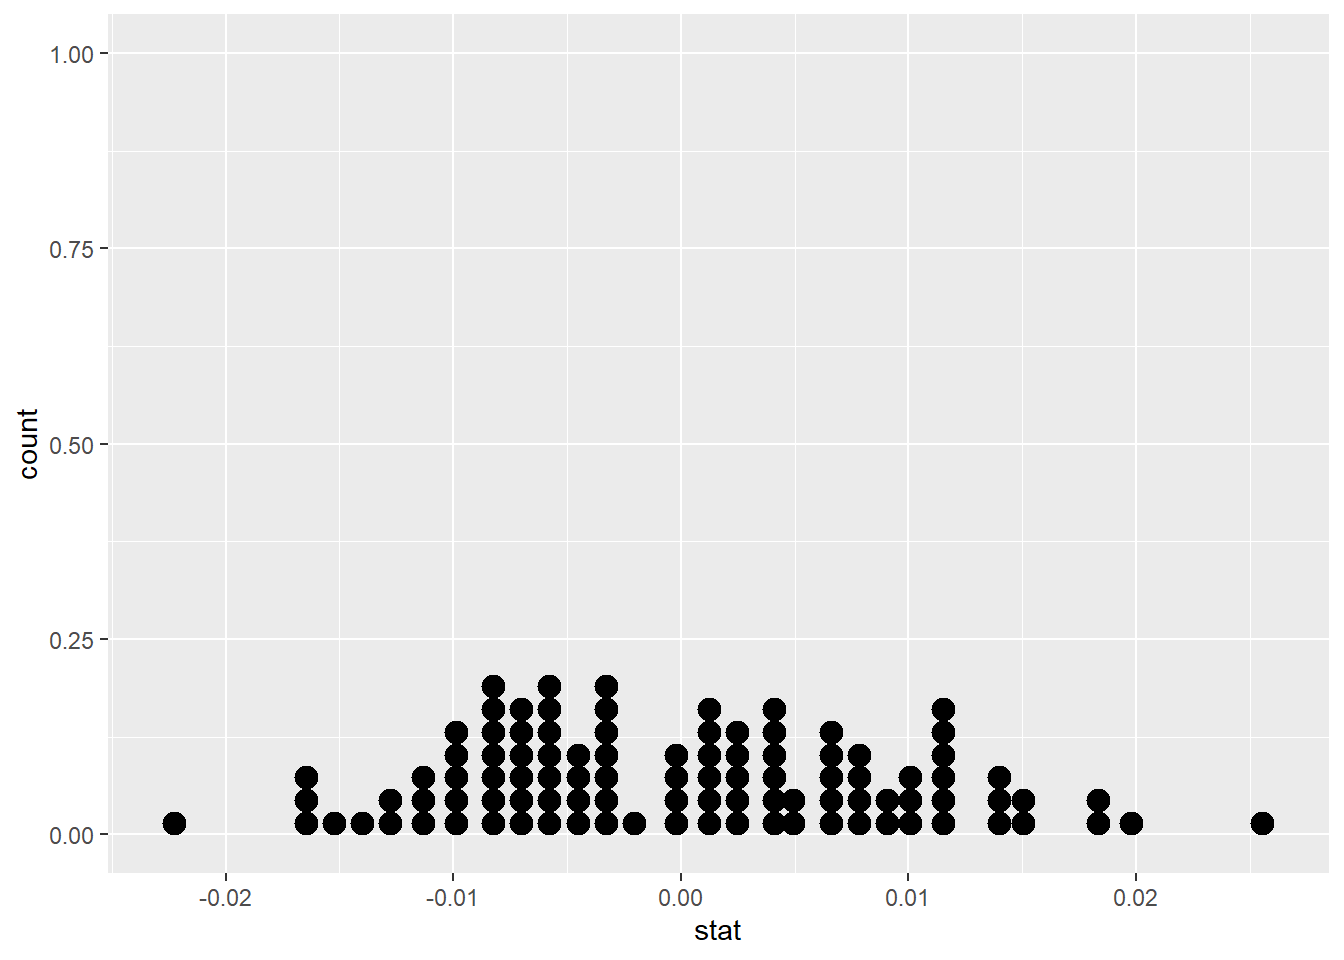
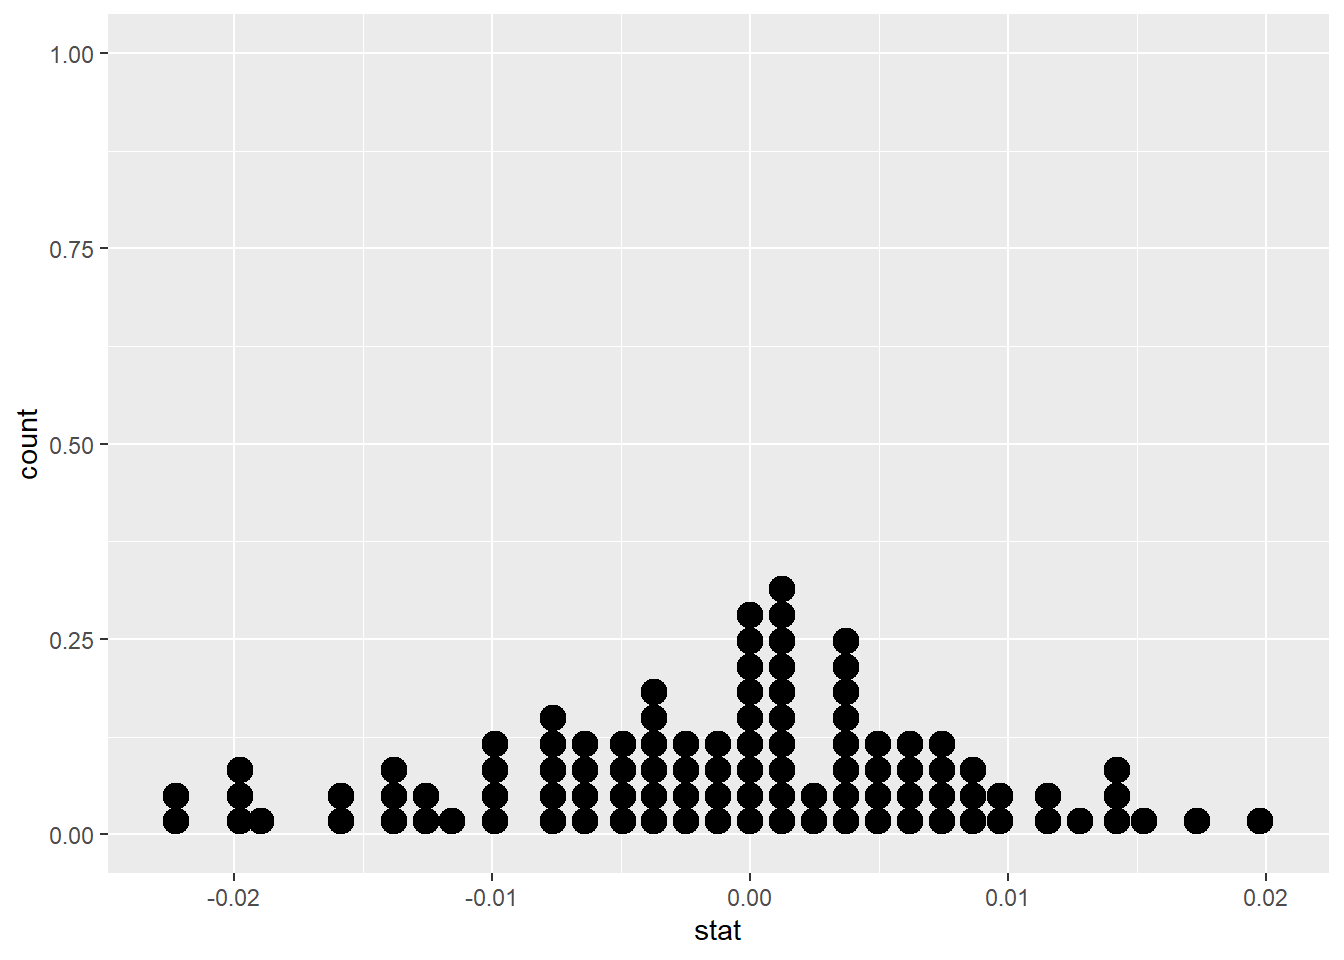
45

diff --git a/content/post/R/2021-10-13-foundations-of-inference/index.en.html b/content/post/R/2021-10-13-foundations-of-inference/index.en.html
@@ -144,16 +144,16 @@ homeown_perm</code></pre>
 ## # Groups:   replicate [10]
 ##    HomeOwn Gender replicate
 ##    &lt;fct&gt;   &lt;fct&gt;      &lt;int&gt;
-##  1 Rent    male           1
-##  2 Own     male           1
-##  3 Rent    male           1
-##  4 Rent    male           1
+##  1 Own     male           1
+##  2 Rent    male           1
+##  3 Own     male           1
+##  4 Own     male           1
 ##  5 Own     female         1
 ##  6 Own     male           1
-##  7 Own     male           1
+##  7 Rent    male           1
 ##  8 Rent    female         1
-##  9 Own     female         1
-## 10 Rent    female         1
+##  9 Rent    female         1
+## 10 Own     female         1
 ## # ... with 97,110 more rows</code></pre>
 </div>
 <div id="randomized-statistics-and-dotplot" class="section level2">
@@ -176,18 +176,18 @@ homeown_perm &lt;- homes %&gt;%
 # Print results to console
 homeown_perm</code></pre>
 <pre><code>## # A tibble: 100 x 2
-##    replicate     stat
-##        &lt;int&gt;    &lt;dbl&gt;
-##  1         1  0.00659
-##  2         2  0.00288
-##  3         3  0.0136 
-##  4         4 -0.00618
-##  5         5 -0.0177 
-##  6         6 -0.0124 
-##  7         7 -0.0103 
-##  8         8 -0.00330
-##  9         9  0.00659
-## 10        10 -0.00124
+##    replicate        stat
+##        &lt;int&gt;       &lt;dbl&gt;
+##  1         1  0.000409  
+##  2         2  0.00288   
+##  3         3  0.00329   
+##  4         4  0.00206   
+##  5         5  0.00865   
+##  6         6  0.00206   
+##  7         7  0.0218    
+##  8         8  0.00247   
+##  9         9 -0.00000297
+## 10        10 -0.0132    
 ## # ... with 90 more rows</code></pre>
 <pre class="r"><code># Perform 100 permutations
 homeown_perm &lt;- homes %&gt;%
@@ -369,11 +369,11 @@ disc_perm %&gt;%
 <pre><code>## # A tibble: 5 x 2
 ##   replicate    stat
 ##       &lt;int&gt;   &lt;dbl&gt;
-## 1         1 -0.208 
+## 1         1 -0.0417
 ## 2         2 -0.0417
 ## 3         3 -0.208 
-## 4         4 -0.0417
-## 5         5 -0.0417</code></pre>
+## 4         4  0.292 
+## 5         5  0.125</code></pre>
 </div>
 <div id="randomizing-gender-discrimination" class="section level2">
 <h2>2-5 Randomizing gender discrimination</h2>
@@ -438,7 +438,7 @@ ggplot(disc_perm, aes(x = stat)) +
 <pre><code>## # A tibble: 1 x 3
 ##    q.90  q.95  q.99
 ##   &lt;dbl&gt; &lt;dbl&gt; &lt;dbl&gt;
-## 1 0.208 0.208 0.292</code></pre>
+## 1 0.125 0.208 0.292</code></pre>
 </div>
 <div id="two-sided-critical-region" class="section level2">
 <h2>2-9 Two-sided critical region</h2>
@@ -459,7 +459,7 @@ disc_perm %&gt;%
 <pre><code>## # A tibble: 1 x 3
 ##     q.01   q.05   q.10
 ##    &lt;dbl&gt;  &lt;dbl&gt;  &lt;dbl&gt;
-## 1 -0.292 -0.208 -0.208</code></pre>
+## 1 -0.292 -0.208 -0.125</code></pre>
 </div>
 <div id="sample-size-in-randomization-distribution" class="section level2">
 <h2>2-12 Sample size in randomization distribution</h2>
@@ -519,7 +519,7 @@ calc_upper_quantiles(disc_perm)</code></pre>
 <pre><code>## # A tibble: 1 x 3
 ##    q.90  q.95  q.99
 ##   &lt;dbl&gt; &lt;dbl&gt; &lt;dbl&gt;
-## 1 0.208 0.208 0.292</code></pre>
+## 1 0.125 0.208 0.292</code></pre>
 <pre class="r"><code># Calculate the quantiles associated with the small dataset
 calc_upper_quantiles(disc_perm_small)</code></pre>
 <pre><code>##   q.90 q.95 q.99
@@ -534,6 +534,42 @@ calc_upper_quantiles(disc_perm_big)</code></pre>
 <p>In the video, you learned that a p-value measures the degree of disagreement between the data and the null hypothesis. Here, you will calculate the p-value for the original discrimination dataset as well as the small and big versions, disc_small and disc_big.</p>
 <p>The original differences in proportions are available in your workspace, diff_orig, diff_orig_small, and diff_orig_big, as are the permuted datasets, disc_perm, disc_perm_small, and disc_perm_big.</p>
 <p>Recall that you’re only interested in the one-sided hypothesis test here. That is, you’re trying to answer the question, “Are men more likely to be promoted than women?”</p>
+<pre class="r"><code># Visualize and calculate the p-value for the original dataset
+disc_perm %&gt;%
+  visualize(obs_stat = diff_orig, direction = &quot;greater&quot;)</code></pre>
+<pre><code>## Warning: `visualize()` should no longer be used to plot a p-value. Arguments
+## `obs_stat`, `obs_stat_color`, `pvalue_fill`, and `direction` are deprecated. Use
+## `shade_p_value()` instead.</code></pre>
+<p><img src="{{< blogdown/postref >}}index.en_files/figure-html/unnamed-chunk-22-1.png" width="672" /></p>
+<pre class="r"><code>disc_perm %&gt;%
+  get_p_value(obs_stat = diff_orig, direction = &quot;greater&quot;)</code></pre>
+<pre><code>## # A tibble: 1 x 1
+##   p_value
+##     &lt;dbl&gt;
+## 1   0.481</code></pre>
+<pre class="r"><code># Visualize and calculate the p-value for the small dataset
+#disc_perm_small %&gt;%
+#  visualize(obs_stat = diff_orig_small, direction = &quot;greater&quot;)
+
+disc_perm_small %&gt;%
+  get_p_value(obs_stat = diff_orig_small, direction = &quot;greater&quot;)</code></pre>
+<pre><code>## # A tibble: 1 x 1
+##   p_value
+##     &lt;dbl&gt;
+## 1   0.282</code></pre>
+<pre class="r"><code># Visualize and calculate the p-value for the big dataset
+#disc_perm_big %&gt;%
+#  visualize(obs_stat = diff_orig_big, direction = &quot;greater&quot;)
+
+disc_perm_big %&gt;%
+  get_p_value(obs_stat = diff_orig_big, direction = &quot;greater&quot;)</code></pre>
+<pre><code>## Warning: Please be cautious in reporting a p-value of 0. This result is an
+## approximation based on the number of `reps` chosen in the `generate()` step. See `?
+## get_p_value()` for more information.</code></pre>
+<pre><code>## # A tibble: 1 x 1
+##   p_value
+##     &lt;dbl&gt;
+## 1       0</code></pre>
 </div>
 <div id="practice-calculating-p-values" class="section level2">
 <h2>2- 16 Practice calculating p-values</h2>
